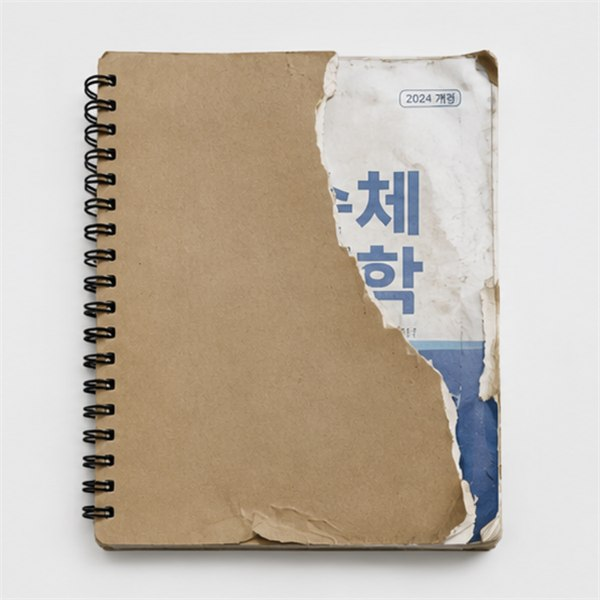
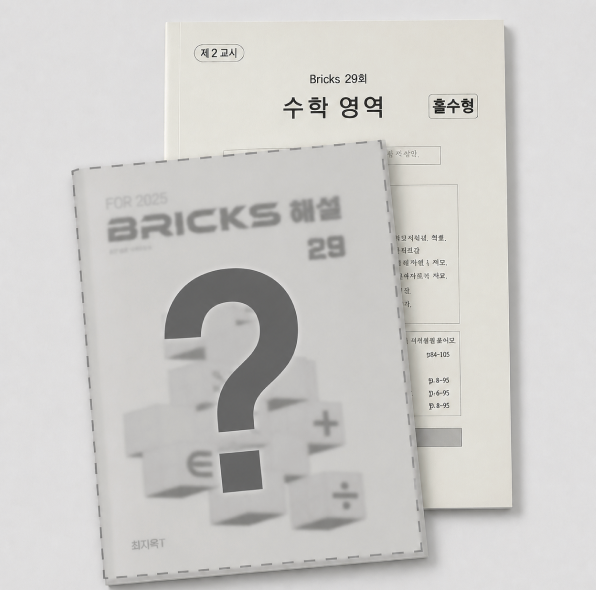
Fix: 수거신청페이지 텍스트/이미지 수정

diff --git a/apps/public-web/src/pages/PublicPickupRequestPage.jsx b/apps/public-web/src/pages/PublicPickupRequestPage.jsx
@@ -275,8 +275,8 @@ function StepIntro({ onNext }) {
               <SlidersIcon size={18} />
             </span>
             <div className="pickup-guide-list__text">
-              <strong>상태에 맞게 판매돼요</strong>
-              <span>교재별로 검수 후 상태에 맞는 등급·가격으로 판매돼요.</span>
+              <strong>새 책만 판매 가능해요</strong>
+              <span>반드시 교재에 필기가 있는지 확인해주세요.</span>
             </div>
           </li>
           <li className="pickup-guide-list__item">
@@ -300,7 +300,7 @@ function StepIntro({ onNext }) {
               <img src={bookImg1} alt="" />
             </div>
             <figcaption className="pickup-guide-photo__caption">
-              필기·형광펜이 많은 교재
+              필기나 형광펜 자국이 있는 교재
             </figcaption>
           </figure>
           <figure className="pickup-guide-photo">
@@ -308,7 +308,7 @@ function StepIntro({ onNext }) {
               <img src={bookImg2} alt="" />
             </div>
             <figcaption className="pickup-guide-photo__caption">
-              훼손·물에 젖은 교재
+              찢어지거나 얼룩이 있는 교재
             </figcaption>
           </figure>
           <figure className="pickup-guide-photo">
@@ -316,7 +316,7 @@ function StepIntro({ onNext }) {
               <img src={bookImg3} alt="" />
             </div>
             <figcaption className="pickup-guide-photo__caption">
-              찢어지거나 표지 없는 교재
+              답지를 분실한 교재
             </figcaption>
           </figure>
         </div>
